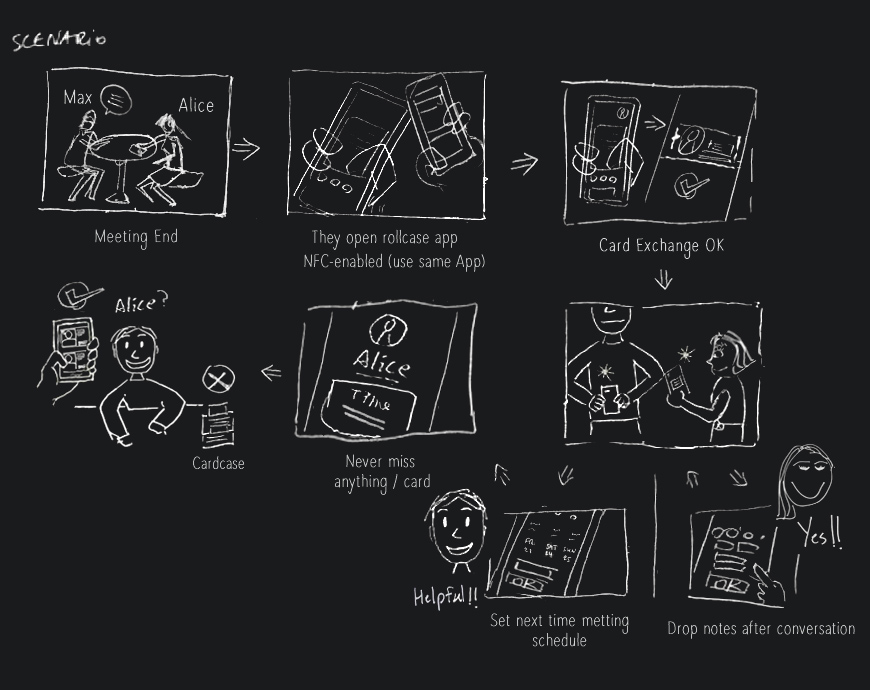
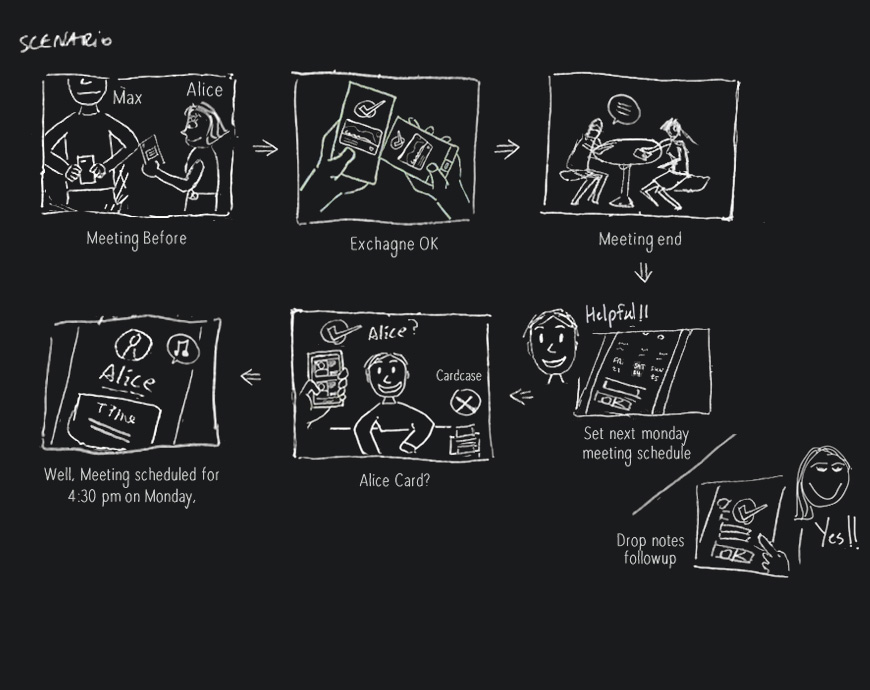
2307_01

diff --git a/project/rollcase.html b/project/rollcase.html
@@ -447,7 +447,7 @@
 
       <p class="observable h6 spacing-title spacing-sub-title">Storyboard Assumptions</p>
       <p class="observable h6 spacing-title spacing-medium">4. Card exchange process</p>
-      <p class="observable body spacing-small">This purpose of considering user exhange digital card after a meeting, and how it can be help for their following up to reduce work afterwards. Here’s the storyboard I came up with.</p>
+      <p class="observable body spacing-small">This purpose of considering user exchange business cards to each other, and how it can be help for their following up to reduce work afterwards. Here’s the storyboard I came up with. <!--Change Meeting before?--></p>
 
       <a class="image-popup-fit-width" title="Click on image to enlarge/reduce it"  href="../images/projects/rollcase/scenarios.jpg"><img class="spacing-large observable lazy" data-src="../images/projects/rollcase/scenarios.jpg" /></a>
 
